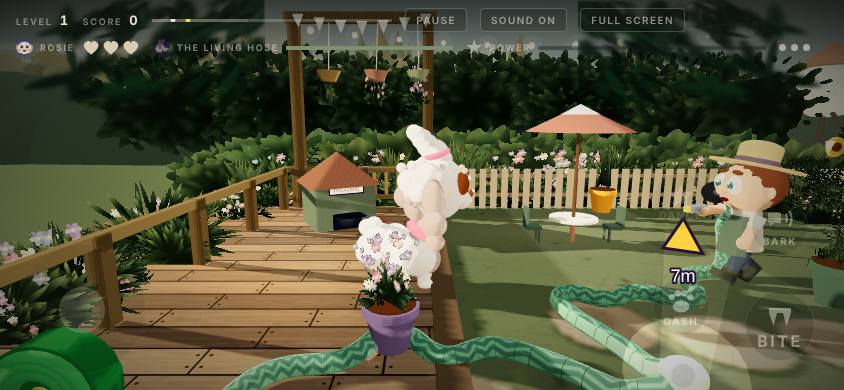
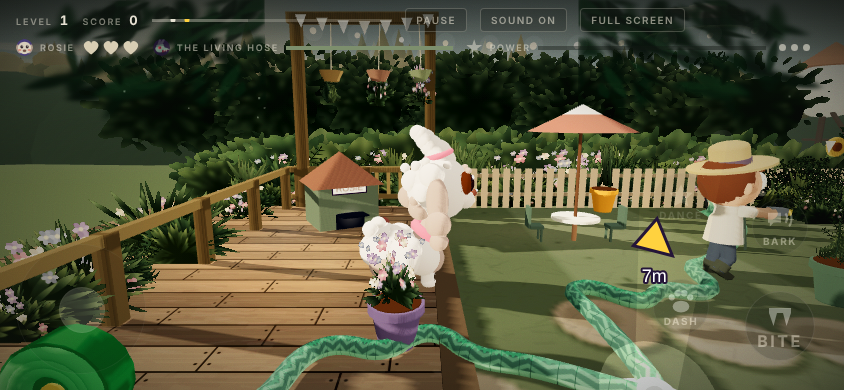
feat: hand-animated motion — stepped poses, anticipation, squash and settle
The user said five times that the motion still felt like the old game.
It did: everything interpolated smoothly at 60fps, which is the house
style of the games they do not want to resemble.

Characters now draw on 2s and 3s at 12fps through a shared stepped
clock, while camera, rope, water, particles and all physics stay
smooth. Pose code still runs every frame on real dt and only the
drawing is held, so nothing can desync. Root translation deliberately
does not step, since a held world position teleports Rosie out of a
dash.

Also: poses freeze dead through hit-stop then snap into the
follow-through; anticipation carved out of existing start-up windows so
no input latency is added; volume-preserving squash and stretch on
dashes, landings and impacts; a shared spring for overshoot on body
yaw, head turns, the rear-up and the dance; and ears, tail and bow
lagging behind the body's own speed and turn rate.

STEP_FPS=12 with a 2-3 hold pattern controls all of it; 0 or
prefers-reduced-motion disables it.

Gameplay timing byte-identical, moves harness 35/36 unchanged.

Claude-Session: https://claude.ai/code/session_01JR8fsw3Uh5kViP8MJWMfnz

diff --git a/src/index.html b/src/index.html
@@ -2484,7 +2484,7 @@ function ssY(o,v){const q=Math.max(.05,v),i=1/Math.sqrt(q);o.scale.set(i,q,i);}
 /* animation-only state. Nothing in here is read by physics, hit detection or any timer. */
 const A={rot:{v:0},av:0,head:{v:0},headY:0,rear:{v:0},dance:{v:0},
   earL:[{v:0},{v:0}],earA:[0,0],tailL:{v:0},tailA:0,
-  mArm:[{v:0},{v:0}],mY:1,mYs:{v:0},mRot:{v:0}};
+  mArm:[{v:0},{v:0}],mY:1,mYs:{v:0},mRot:{v:0},ant:0,pc:0,pd:0};
 let rearV=0,danceO=0;
 function render3D(dt){
   stepClock(dt);
@@ -2532,11 +2532,15 @@ function render3D(dt){
   dog.position.set(R.x,0,rz);{const d0=dogRot;dogRot=ovrAng(dogRot,-R.ang,A.rot,dt,13,.42);A.av=Math.atan2(Math.sin(dogRot-d0),Math.cos(dogRot-d0))/(dt||1);rollS=lerp(rollS,clamp(Math.atan2(Math.sin(dogRot-d0),Math.cos(dogRot-d0))/(dt||1)*.045,-.3,.3)*sf,1-Math.exp(-dt*8));sfS=lerp(sfS,moving?sf:0,1-Math.exp(-dt*9));}dog.rotation.y=dogRot+(dance?lerp(Math.sin(t*6)*.6,Math.sin(t*3)*.45,rearV):0)+(R.thrash>0?Math.sin(t*42)*.18:0);dog.scale.setScalar(R.sc);dog.visible=!(R.hurt>0&&Math.floor(t*18)%2);
   /* ANTICIPATION. Bite, Pounce and Dash all fire on the frame of the input -- there is no
      start-up to borrow from without adding input latency -- so the wind-up is carved out of the
-     first ~30% of the chomp / dash timer that already existed. The hit is resolved before the
-     crouch is ever drawn, so it costs zero frames of lag; Bark and the lasso tap use a shorter
-     chomp and get a token one off the same curve. The four specials wind up inside their own
-     existing start-up windows, in poseSpecial. */
-  const ant=Math.max(R.chomp>0?clamp((R.chomp-.112)/.048,0,1):0,(R.dash>0&&!R.pounce)?clamp((R.dash-.119)/.051,0,1):0);
+     front of the chomp / dash timer that already existed: the hit is resolved before the crouch
+     is ever drawn, so it costs zero frames of lag. It lasts exactly ONE drawing (1/STEP_FPS),
+     and the rising edge forces a tick so that drawing is guaranteed to be shown and held rather
+     than falling between two steps. Bark and the lasso tap get the same wind-up off their own
+     shorter chomp; the four specials wind up inside their existing start-up windows, in
+     poseSpecial, where there was already room to take it from. */
+  if(R.chomp>A.pc+1e-4||R.dash>A.pd+1e-4){A.ant=1;stepNew=true;}   /* the rising edge of a committed action */
+  A.pc=R.chomp;A.pd=R.dash;A.ant=Math.max(0,A.ant-dt*STEP_FPS);
+  const ant=A.ant*A.ant;
   dogP.position.y=bob+(dance?lerp(Math.abs(Math.sin(t*12))*16,Math.abs(Math.sin(t*4.8))*10,rearV):0)+rearV*26-11*ant;
   dogP.rotation.z=-.07*sfS-Math.sin(run)*.04*sfS+rearV*.90+.26*ant;          /* nose UP, against the strike */
   dogP.rotation.x=dance?Math.sin(t*12)*.22:rollS;
